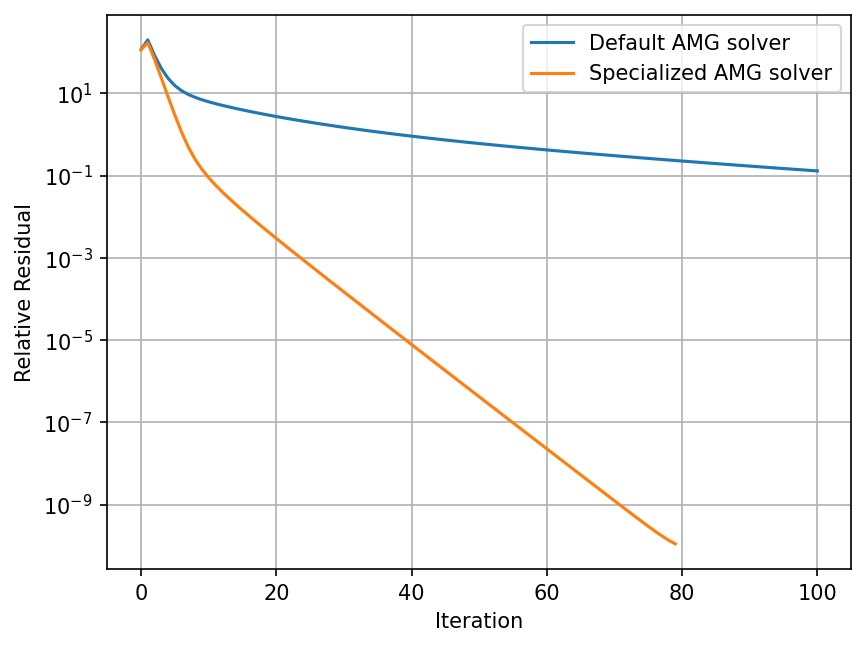
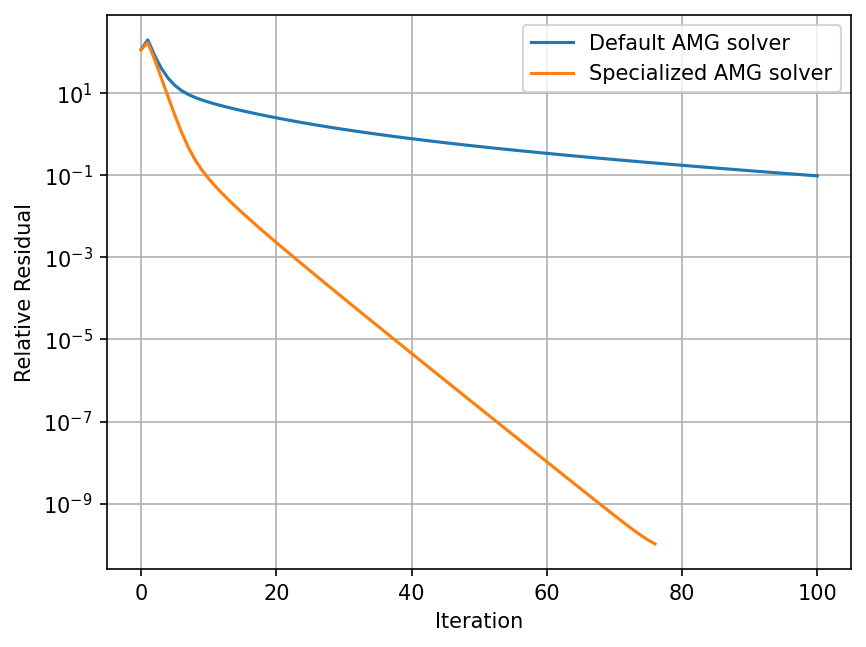
docs: move helmholtz to last

diff --git a/helmholtz/demo1d.py b/helmholtz/demo1d.py
@@ -69,7 +69,7 @@ ax.semilogy(residuals1,    label='AMG with $B=1$')
 ax.semilogy(residualswave, label='AMG with $B=$wave')
 plt.legend()
 ax.set_title('AMG convergence for the 1D Helmholtz problem')
-figname = f'./output/helmholtz1dconv.png'
+figname = f'./output/1dhelmholtzconv.png'
 import sys
 if '--savefig' in sys.argv:
     plt.savefig(figname, bbox_inches='tight', dpi=150)
@@ -96,7 +96,7 @@ ax.plot(vertices[indys, 0], scale * np.real(np.ravel(V[indys, -1])),
 ax.set_title('Near Null-Space (NNS) vs. Lowest Right Singular Vector $\\nu$')
 plt.legend(framealpha=1.0)
 
-figname = f'./output/helmholtz1dwaves.png'
+figname = f'./output/1dhelmholtzwaves.png'
 import sys
 if '--savefig' in sys.argv:
     plt.savefig(figname, bbox_inches='tight', dpi=150)

diff --git a/helmholtz/demo2d.py b/helmholtz/demo2d.py
@@ -161,7 +161,7 @@ for aggs in AggOp.T:
 ax.set_title('Level-0 aggregates')
 ax.axis('square')
 ax.axis('off')
-figname = f'./output/helmholtz2dagg.png'
+figname = f'./output/2dhelmholtzagg.png'
 import sys
 if '--savefig' in sys.argv:
     plt.savefig(figname, bbox_inches='tight', dpi=150)
@@ -176,7 +176,7 @@ for i, ax in enumerate(axs.ravel()):
     ax.axis('square')
     ax.axis('off')
 
-figname = f'./output/helmholtz2dB.png'
+figname = f'./output/2dhelmholtzB.png'
 import sys
 if '--savefig' in sys.argv:
     plt.savefig(figname, bbox_inches='tight', dpi=150)

diff --git a/runner.py b/runner.py
@@ -19,9 +19,6 @@ def exectute_demo(exampledir, name='demo.py'):
 mainreadme = 'readme.md'
 toc = yaml.safe_load("""
 Introduction:
-  - dir: helmholtz
-    title: Indefinite Helmholtz
-    demo: demo1d.py, demo2d.py
   - dir: 0_start_here
     title: Overview
 Blackbox Solver:
@@ -66,6 +63,9 @@ Preconditioning:
 Other Applications:
   - dir: mesh_partition
     title: Graph Partitioning
+  - dir: helmholtz
+    title: Indefinite Helmholtz
+    demo: demo1d.py, demo2d.py
 """)
 
 # generate table and header

diff --git a/readme.md b/readme.md
@@ -16,86 +16,6 @@ https://github.com/pyamg/pyamg-examples.
 ### Introduction
 
 
-#### Indefinite Helmholtz
-
-[demo1d.py](./helmholtz/demo1d.py)
-
-[demo2d.py](./helmholtz/demo2d.py)
-
-The example focusses on the indefinite Helmholtz wave problem.  The first
-part highlights the value in using waves to represent the near-null space, `B`.
-In addition, we observe the waves to resemble the  (lowest) right singular vectors
-of the problem.
-
-In the case of 2D, discontinuous Galerkin is used, yielding multiple
-degrees of freedom at each spatial location.  As a result,
-the fine level (level-0) aggregates of the discontinuous
-elemeents, largely group neigboring vertices.  The wave-like near
-null-space is then enforced on the first coarse grid (level-1), resulting
-in four modes.
-
-```
-
-Running 2D Helmholtz Example
--- 10.00 Points-per-wavelength
--- 2.73e-01 = h,  2.50 = omega
--- Discretized with a local discontinuous Galerkin method
-   on annulus-shaped domain
-Using only a constant mode for interpolation yields an inefficient solver.
-This is due to aliasing oscillatory, but algebraically smooth, modes on the coarse levels.
-residual at iteration  0: 3.14e+01
-residual at iteration  1: 4.00e+00
-residual at iteration  2: 2.53e+00
-residual at iteration  3: 9.74e-01
-residual at iteration  4: 2.76e-01
-residual at iteration  5: 1.22e-01
-residual at iteration  6: 5.91e-02
-residual at iteration  7: 2.64e-02
-residual at iteration  8: 1.48e-02
-residual at iteration  9: 6.75e-03
-residual at iteration 10: 3.30e-03
-residual at iteration 11: 1.73e-03
-residual at iteration 12: 6.48e-04
-residual at iteration 13: 3.75e-04
-residual at iteration 14: 1.44e-04
-residual at iteration 15: 6.55e-05
-residual at iteration 16: 3.85e-05
-residual at iteration 17: 1.34e-05
-residual at iteration 18: 7.11e-06
-residual at iteration 19: 3.81e-06
-residual at iteration 20: 9.36e-07
-Note the improved performance from using planewaves in B.
-residual at iteration  0: 3.05e+01
-residual at iteration  1: 2.62e-01
-residual at iteration  2: 2.42e-03
-residual at iteration  3: 2.88e-05
-residual at iteration  4: 3.29e-07
-residual at iteration  5: 3.87e-09
-MultilevelSolver
-Number of Levels:     4
-Operator Complexity:  1.435
-Grid Complexity:      1.411
-Coarse Solver:        'pinv2'
-  level   unknowns     nonzeros
-     0        2880        52016 [69.67%]
-     1         880        10480 [14.04%]
-     2         256         9856 [13.20%]
-     3          48         2304 [3.09%]
-
-```
-
-<img src="./helmholtz/output/helmholtz2dagg.png" width="300"/>
-
-
-<img src="./helmholtz/output/helmholtz1dwaves.png" width="300"/>
-
-
-<img src="./helmholtz/output/helmholtz1dconv.png" width="300"/>
-
-
-<img src="./helmholtz/output/helmholtz2dB.png" width="300"/>
-
-
 #### Overview
 
 [demo.py](./0_start_here/demo.py)
@@ -133,7 +53,7 @@ Coarse Solver:        'pinv'
      3          64          484 [0.12%]
      4           9           49 [0.01%]
 
-The residual norm is 0.13013502420692594
+The residual norm is 0.09698099058812655
 
 
 The Multigrid Hierarchy
@@ -153,14 +73,14 @@ Operator Complexity:  2.159
 Grid Complexity:      1.201
 Coarse Solver:        'pinv'
   level   unknowns     nonzeros
-     0       40000       357604 [46.31%]
-     1        6700       226352 [29.31%]
-     2        1232       176222 [22.82%]
-     3         109        11827 [1.53%]
+     0       40000       357604 [46.32%]
+     1        6700       226352 [29.32%]
+     2        1232       176224 [22.83%]
+     3         108        11634 [1.51%]
      4          13          169 [0.02%]
-     5           4           16 [0.00%]
+     5           2            4 [0.00%]
 
-The residual norm is 1.1048153918060711e-10
+The residual norm is 1.0418617881770976e-10
 
 
 ```
@@ -201,8 +121,8 @@ The demo produces residual norms that can vary from machine to machine.
     iteration 5.0
     iteration 6.0
     iteration 7.0
-  Residuals ||r_k||_M, ||r_0||_M = 6.45e-01, 8.68e+06
-  Residual reduction ||r_k||_M/||r_0||_M = 7.43e-08
+  Residuals ||r_k||_M, ||r_0||_M = 6.46e-01, 8.68e+06
+  Residual reduction ||r_k||_M/||r_0||_M = 7.44e-08
 ```
 
 ***
@@ -655,23 +575,23 @@ Number of iterations:  19d
 
 residual at iteration  0: 1.63e+02
 residual at iteration  1: 1.13e+02
-residual at iteration  2: 8.20e+00
+residual at iteration  2: 8.19e+00
 residual at iteration  3: 1.12e+00
-residual at iteration  4: 2.58e-01
-residual at iteration  5: 6.81e-02
-residual at iteration  6: 1.87e-02
-residual at iteration  7: 5.18e-03
+residual at iteration  4: 2.56e-01
+residual at iteration  5: 6.76e-02
+residual at iteration  6: 1.85e-02
+residual at iteration  7: 5.16e-03
 residual at iteration  8: 1.45e-03
 residual at iteration  9: 4.09e-04
 residual at iteration 10: 1.16e-04
-residual at iteration 11: 3.29e-05
-residual at iteration 12: 9.41e-06
-residual at iteration 13: 2.70e-06
-residual at iteration 14: 7.77e-07
-residual at iteration 15: 2.24e-07
-residual at iteration 16: 6.52e-08
-residual at iteration 17: 1.90e-08
-residual at iteration 18: 5.55e-09
+residual at iteration 11: 3.31e-05
+residual at iteration 12: 9.49e-06
+residual at iteration 13: 2.73e-06
+residual at iteration 14: 7.90e-07
+residual at iteration 15: 2.29e-07
+residual at iteration 16: 6.69e-08
+residual at iteration 17: 1.96e-08
+residual at iteration 18: 5.75e-09
 ```
 
 ***
@@ -766,6 +686,86 @@ vector.  Positive/negative values of the Fiedler vector are plotted in
 different colors, illustrating the natural splitting this mesh.
 
 <img src="./mesh_partition/output/mesh_partition.png" width="300"/>
+
+
+#### Indefinite Helmholtz
+
+[demo1d.py](./helmholtz/demo1d.py)
+
+[demo2d.py](./helmholtz/demo2d.py)
+
+The example focusses on the indefinite Helmholtz wave problem.  The first
+part highlights the value in using waves to represent the near-null space, `B`.
+In addition, we observe the waves to resemble the  (lowest) right singular vectors
+of the problem.
+
+In the case of 2D, discontinuous Galerkin is used, yielding multiple
+degrees of freedom at each spatial location.  As a result,
+the fine level (level-0) aggregates of the discontinuous
+elemeents, largely group neigboring vertices.  The wave-like near
+null-space is then enforced on the first coarse grid (level-1), resulting
+in four modes.
+
+```
+
+Running 2D Helmholtz Example
+-- 10.00 Points-per-wavelength
+-- 2.73e-01 = h,  2.50 = omega
+-- Discretized with a local discontinuous Galerkin method
+   on annulus-shaped domain
+Using only a constant mode for interpolation yields an inefficient solver.
+This is due to aliasing oscillatory, but algebraically smooth, modes on the coarse levels.
+residual at iteration  0: 3.14e+01
+residual at iteration  1: 4.00e+00
+residual at iteration  2: 2.53e+00
+residual at iteration  3: 9.74e-01
+residual at iteration  4: 2.76e-01
+residual at iteration  5: 1.22e-01
+residual at iteration  6: 5.91e-02
+residual at iteration  7: 2.64e-02
+residual at iteration  8: 1.48e-02
+residual at iteration  9: 6.75e-03
+residual at iteration 10: 3.30e-03
+residual at iteration 11: 1.73e-03
+residual at iteration 12: 6.48e-04
+residual at iteration 13: 3.75e-04
+residual at iteration 14: 1.44e-04
+residual at iteration 15: 6.55e-05
+residual at iteration 16: 3.85e-05
+residual at iteration 17: 1.34e-05
+residual at iteration 18: 7.11e-06
+residual at iteration 19: 3.81e-06
+residual at iteration 20: 9.36e-07
+Note the improved performance from using planewaves in B.
+residual at iteration  0: 3.05e+01
+residual at iteration  1: 2.62e-01
+residual at iteration  2: 2.42e-03
+residual at iteration  3: 2.88e-05
+residual at iteration  4: 3.29e-07
+residual at iteration  5: 3.87e-09
+MultilevelSolver
+Number of Levels:     4
+Operator Complexity:  1.435
+Grid Complexity:      1.411
+Coarse Solver:        'pinv2'
+  level   unknowns     nonzeros
+     0        2880        52016 [69.67%]
+     1         880        10480 [14.04%]
+     2         256         9856 [13.20%]
+     3          48         2304 [3.09%]
+
+```
+
+<img src="./helmholtz/output/1dhelmholtzconv.png" width="300"/>
+
+
+<img src="./helmholtz/output/2dhelmholtzagg.png" width="300"/>
+
+
+<img src="./helmholtz/output/1dhelmholtzwaves.png" width="300"/>
+
+
+<img src="./helmholtz/output/2dhelmholtzB.png" width="300"/>
 
 
 ***
